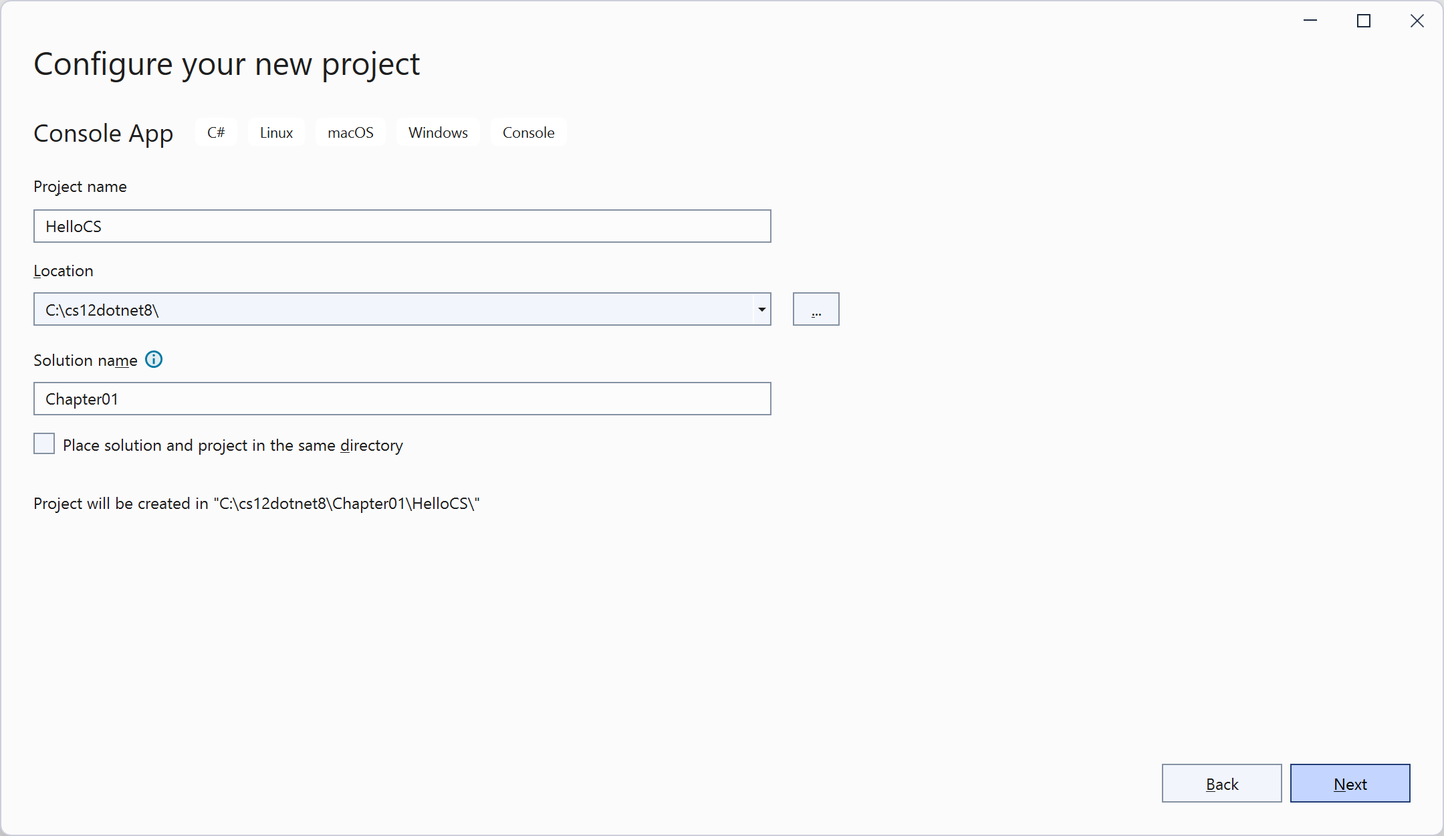
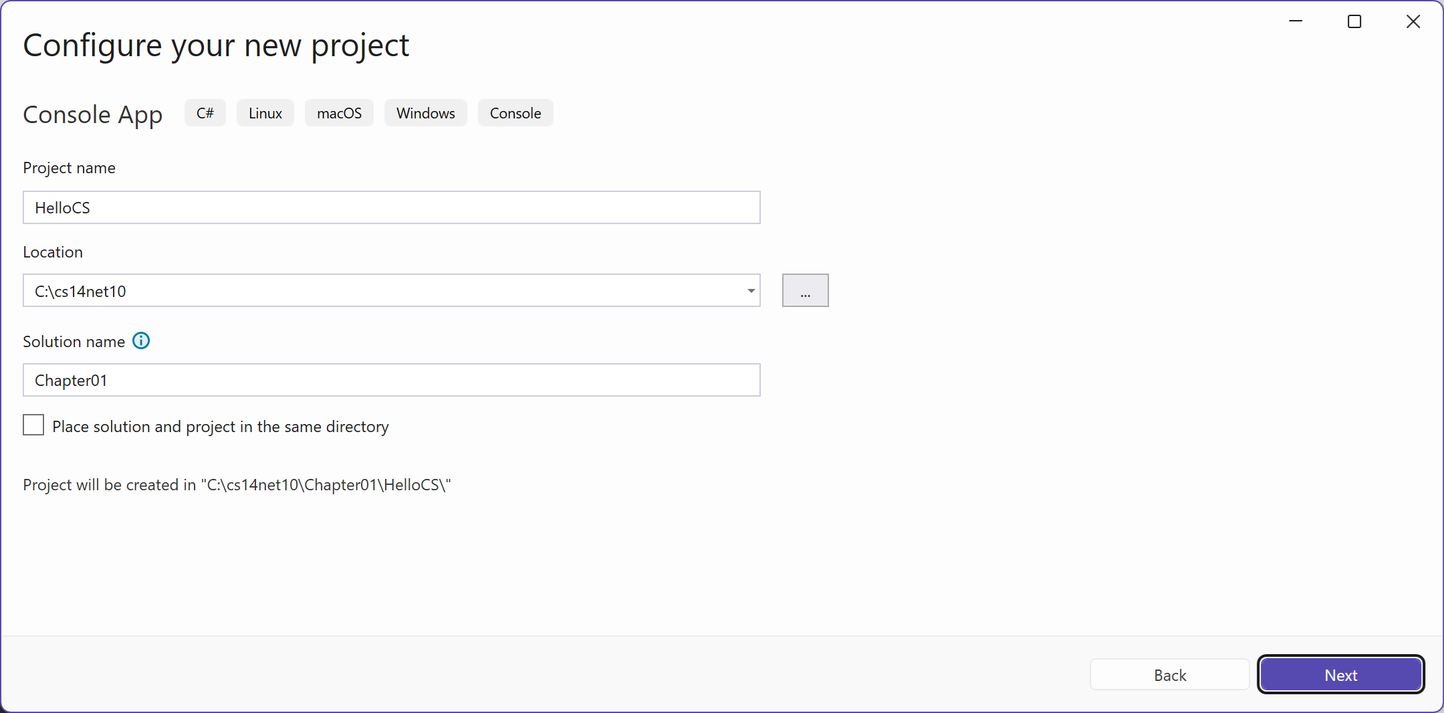
update screenshots to VS2026

diff --git a/docs/code-editors/vs.md b/docs/code-editors/vs.md
@@ -1,40 +1,38 @@
-**Using Visual Studio 2022 for Windows**
+**Visual Studio 2026 for Windows**
 
-In this article, I provide detailed step-by-step instuctions for using Visual Studio 2022 for Windows for topics like creating a solution with multiple projects and using debugging tools.
+In this article, I provide detailed step-by-step instuctions for using Visual Studio 2026 for Windows for topics like creating a solution with multiple projects and using debugging tools.
 
 - [Chapter 1 - Hello, C#! Welcome, .NET!](#chapter-1---hello-c-welcome-net)
-  - [Downloading and installing Visual Studio 2022](#downloading-and-installing-visual-studio-2022)
-  - [Building console apps using Visual Studio 2022](#building-console-apps-using-visual-studio-2022)
-    - [Managing multiple projects using Visual Studio 2022](#managing-multiple-projects-using-visual-studio-2022)
-    - [Writing code using Visual Studio 2022](#writing-code-using-visual-studio-2022)
+  - [Downloading and installing Visual Studio](#downloading-and-installing-visual-studio)
+  - [Building console apps using Visual Studio](#building-console-apps-using-visual-studio)
+    - [Managing multiple projects using Visual Studio](#managing-multiple-projects-using-visual-studio)
+    - [Writing code using Visual Studio](#writing-code-using-visual-studio)
   - [Compiling and running code using Visual Studio](#compiling-and-running-code-using-visual-studio)
   - [Understanding the compiler-generated folders and files](#understanding-the-compiler-generated-folders-and-files)
   - [Understanding top-level programs](#understanding-top-level-programs)
     - [Requirements for top-level programs](#requirements-for-top-level-programs)
     - [Implicitly imported namespaces](#implicitly-imported-namespaces)
     - [Revealing the hidden code by throwing an exception](#revealing-the-hidden-code-by-throwing-an-exception)
-  - [Adding a second project using Visual Studio 2022](#adding-a-second-project-using-visual-studio-2022)
+  - [Adding a second project using Visual Studio](#adding-a-second-project-using-visual-studio)
 - [Chapter 4 - Writing, Debugging, and Testing Functions](#chapter-4---writing-debugging-and-testing-functions)
   - [Debugging during development](#debugging-during-development)
     - [Creating code with a deliberate bug](#creating-code-with-a-deliberate-bug)
     - [Setting a breakpoint and starting debugging](#setting-a-breakpoint-and-starting-debugging)
-    - [Using Visual Studio 2022](#using-visual-studio-2022)
+    - [Using Visual Studio](#using-visual-studio)
     - [Navigating with the debugging toolbar](#navigating-with-the-debugging-toolbar)
     - [Debugging windows](#debugging-windows)
     - [Stepping through code](#stepping-through-code)
     - [Customizing breakpoints](#customizing-breakpoints)
   - [Hot reloading during development](#hot-reloading-during-development)
-    - [Hot reloading using Visual Studio 2022](#hot-reloading-using-visual-studio-2022)
-- [Chapter 7 - Packaging and Distributing .NET Types](#chapter-7---packaging-and-distributing-net-types)
-  - [Decompiling using the ILSpy extension for Visual Studio 2022 (coming soon)](#decompiling-using-the-ilspy-extension-for-visual-studio-2022-coming-soon)
+    - [Hot reloading using Visual Studio](#hot-reloading-using-visual-studio)
 
 # Chapter 1 - Hello, C#! Welcome, .NET!
 
-## Downloading and installing Visual Studio 2022
+## Downloading and installing Visual Studio
 
-If you have not already installed Visual Studio 2022 for Windows, let's do so now:
+If you have not already installed Visual Studio 2026 for Windows, let's do so now:
 
-1.	Download Microsoft Visual Studio 2022 version 17.8 or later for Windows from the following link: https://visualstudio.microsoft.com/downloads/.
+1.	Download Microsoft Visual Studio 2026 version 18.0 or later for Windows from the following link: https://visualstudio.microsoft.com/downloads/.
 2.	Start the installer.
 3.	On the **Workloads** tab, select the following:
     -	**ASP.NET and web development**
@@ -42,50 +40,51 @@ If you have not already installed Visual Studio 2022 for Windows, let's do so no
     - **Desktop development with C++** with all default components (because this enables publishing console apps and web services that start faster and have smaller memory footprints).
 4.	Click **Install** and wait for the installer to acquire the selected software and install it.
 5.	When the installation is complete, click **Launch**.
-6.	The first time that you run Visual Studio 2022, you will be prompted to sign in. If you have a Microsoft account, you can use that account. If you don't, then register for a new one at the following link: https://signup.live.com/
-7.	The first time that you run Visual Studio 2022, you will be prompted to configure your environment. For **Development Settings**, choose **Visual C#**. For the color theme, I chose **Blue**, but you can choose whatever tickles your fancy.
+6.	The first time that you run Visual Studio, you will be prompted to sign in. If you have a Microsoft account, you can use that account. If you don't, then register for a new one at the following link: https://signup.live.com/
+7.	The first time that you run Visual Studio, you will be prompted to configure your environment. For **Development Settings**, choose **Visual C#**. For the color theme, I chose **Blue**, but you can choose whatever tickles your fancy.
 8.	If you want to customize your keyboard shortcuts, navigate to **Tools** | **Options...**, and then select the **Keyboard** section.
 
-## Building console apps using Visual Studio 2022
+## Building console apps using Visual Studio
 
-The goal of this section is to showcase how to build a console app using Visual Studio 2022 for Windows. 
+The goal of this section is to showcase how to build a console app using Visual Studio. 
 
-### Managing multiple projects using Visual Studio 2022
+### Managing multiple projects using Visual Studio
 
-Visual Studio 2022 has a concept named a solution that allows you to open and manage multiple projects simultaneously. We will use a solution to manage the two projects that you will create in this chapter.
+Visual Studio has a concept named a solution that allows you to open and manage multiple projects simultaneously. We will use a solution to manage the two projects that you will create in this chapter.
 
-### Writing code using Visual Studio 2022
+### Writing code using Visual Studio
 
 Let's get started writing code!
 
-1.	Start **Visual Studio 2022**. You might see an experimental new **Welcome** tab that replaces the old model dialog box, as shown in *Figure 1.3*. This was introduced with previews of version 17.6 but in more recent previews it has been removed again. Microsoft is surveying what "Welcome Experience" developers prefer so it might return.
-2.	In the **Welcome** tab, click **New Project**, or if you are using a version with the **Visual Studio 2022** modal dialog box, then in the **Get started** section, click **Create a new project**.
+1.	Start **Visual Studio**.
+2.	In the **Visual Studio 2026** | **Get started** window, click **Create a new project**, as shown in *Figure 1.3*:
 
-![Creating a new project in Visual Studio 2022](assets/vs/B19586_01_03.png)
-*Figure 1.3: Creating a new project in Visual Studio 2022*
+![Creating a new project in Visual Studio](assets/vs/B19586_01_03.png)
+*Figure 1.3: Creating a new project in Visual Studio*
 
-3.	In the **Create a new project** dialog,  select the C# language to filter the project templates, and then enter `console` in the **Search for templates** box, and select **Console App**, making sure that you have chosen the cross-platform project template, not the one for .NET Framework, which is Windows-only, and the C# project template rather than another language, such as Visual Basic or TypeScript, so that it is selected as shown in *Figure 1.4*:
+3.	In the **Create a new project** dialog,  select the **C#** language to filter the project templates, and then enter `console` in the **Search for templates** box, and select **Console App**, making sure that you have chosen the cross-platform project template, not the one for .NET Framework, which is Windows-only, and the C# project template rather than another language, such as Visual Basic or TypeScript, so that it is selected as shown in *Figure 1.4*:
 
 ![Selecting the Console App project template](assets/vs/B19586_01_04.png) 
 *Figure 1.4: Selecting the Console App project template*
 
 4.	Click **Next**.
-5.	In the **Configure your new project** dialog, enter `HelloCS` for the project name, enter `C:\cs12dotnet8` for the location, and enter `Chapter01` for the solution name, as shown in *Figure 1.5*:
+5.	In the **Configure your new project** dialog, enter `HelloCS` for the project name, enter `C:\cs14net10` for the location, and enter `Chapter01` for the solution name, as shown in *Figure 1.5*:
 
  ![Configuring names and locations for your new project](assets/vs/B19586_01_05.png)
 *Figure 1.5: Configuring names and locations for your new project*
 
 6.	Click **Next**.
-7.	In the **Additional information** dialog, in the **Framework** drop-down list, note that your .NET SDK choices indicate if that version is **Standard Term Support**, **Long Term Support**, **Preview**, or **Out of support**, and then select **.NET 8.0 (Long Term Support)**.
+7.	In the **Additional information** dialog, in the **Framework** drop-down list, note that your .NET SDK choices indicate if that version is **Standard Term Support**, **Long Term Support**, **Preview**, or **Out of support**, and then select **.NET 10.0 (Long Term Support)**.
 
-> If you are missing a .NET SDK version, then you can install it from the following link: https://dotnet.microsoft.com/en-us/download/dotnet. 
+> If you are missing a .NET SDK version, then you can install it from the following link: https://dotnet.microsoft.com/en-us/download/dotnet. You will need to restart Visual Studio for it to be recognized. 
 
-8. Leave the check box labelled **Do not use top-level statements** cleared, and then click **Create**. (Later in this chapter you will create a console app that selects this option so you can see the difference.)
-9. If you cannot see the **Solution Explorer**, then navigate to **View** | **Solution Explorer**.
+1. Leave the check boxes labeled **Enable container support**, **Do not use top-level statements**, and **Enable native AOT publish** cleared.(you will learn about these other options later in this and other chapters.)
+2. Click **Create**.
+3.  If you cannot see the **Solution Explorer**, then navigate to **View** | **Solution Explorer**.
 10.	If code is not shown, then in  **Solution Explorer**, double-click the file named `Program.cs` to open it, and note that **Solution Explorer** shows the `HelloCS` project, as shown in *Figure 1.6*:
  
-![Editing Program.cs in Visual Studio 2022](assets/vs/B19586_01_06.png)
-*Figure 1.6: Editing Program.cs in Visual Studio 2022*
+![Editing Program.cs in Visual Studio](assets/vs/B19586_01_06.png)
+*Figure 1.6: Editing Program.cs in Visual Studio*
 
 11.	In `Program.cs`, note the code consists of only a comment and a single statement. This is because it uses the top-level program feature introduced in C# 9, as shown in the following code:
 ```cs
@@ -94,7 +93,7 @@ Console.WriteLine("Hello, World!");
 ```
 > As the comment in the code says, you can read more about this template at the following link: https://aka.ms/new-console-template.
 
-12. In `Program.cs`, modify line 2 so that the text that is being written to the console says `Hello, C#!`.
+1.  In `Program.cs`, modify line 2 so that the text that is being written to the console says `Hello, C#!`.
 
 > All code examples and commands that the reader must review or type are shown in plain text so you will never have to read code or commands from a screenshot like in *Figure 1.6* that might be too small or too faint in print.
 
@@ -104,17 +103,16 @@ The next task is to compile and run the code.
 
 1.	In Visual Studio, navigate to **Debug** | **Start Without Debugging**. 
 
-> **Good Practice**: When you start a project in Visual Studio 2022, you can choose to attach a debugger or not. If you do not need to debug, then it is better not to attach one because attaching a debugger requires more resources and slows everything down. Attaching a debugger also limits you to only starting one project. If you want to run more than one project, each with a debugger attached, then you must start multiple instances of Visual Studio. In the toolbar, click the green outline triangle button to start without debugging instead of the green solid triangle button unless you need to debug.
+> **Good Practice**: When you start a project in Visual Studio, you can choose to attach a debugger or not. If you do not need to debug, then it is better not to attach one because attaching a debugger requires more resources and slows everything down. Attaching a debugger also limits you to only starting one project. If you want to run more than one project, each with a debugger attached, then you must start multiple instances of Visual Studio. In the toolbar, click the green outline triangle button to start without debugging instead of the green solid triangle button unless you need to debug.
 
 2.	The output in the console window will show the result of running your application, as shown in *Figure 1.7*: 
  
 ![Running the console app on Windows](assets/vs/B19586_01_07.png)
 *Figure 1.7: Running the console app on Windows*
 
-3.	Press any key to close the console window and return to Visual Studio 2022.
-4. Optionally, close the **Properties** pane to make more vertical space for **Solution Explorer**.
-5. Double-click the `HelloCS` project and note the `HelloCS.csproj` project file shows that this console app targets `net8.0`, as shown in *Figure 1.8*.
-6.	In the **Solution Explorer** toolbar, toggle on the **Show All Files** button, and note the compiler-generated `bin` and `obj` folders are visible, as shown in *Figure 1.8*: 
+3.	Press any key to close the console window and return to Visual Studio.
+4. Double-click the `HelloCS` project and note the `HelloCS.csproj` project file shows that this console app targets `net10.0`, as shown in *Figure 1.8*.
+5.	In the **Solution Explorer** toolbar, toggle on the **Show All Files** button, and note the compiler-generated `bin` and `obj` folders are visible, as shown in *Figure 1.8*: 
 
 ![Showing the compiler-generated folders and files](assets/vs/B19586_01_08.png)
 *Figure 1.8: Showing the compiler-generated folders and files*
@@ -166,13 +164,13 @@ The trick is that we do still need to import the `System` namespace, but it is n
 2. Note that this file is automatically created by the compiler for projects that target .NET 6 or later, and that it uses a feature introduced in C# 10 called **global namespace imports** that imports some commonly used namespaces like `System` for use in all code files, as shown in the following code:
 ```cs
 // <autogenerated />
-global using global::System;
-global using global::System.Collections.Generic;
-global using global::System.IO;
-global using global::System.Linq;
-global using global::System.Net.Http;
-global using global::System.Threading;
-global using global::System.Threading.Tasks;
+global using System;
+global using System.Collections.Generic;
+global using System.IO;
+global using System.Linq;
+global using System.Net.Http;
+global using System.Threading;
+global using System.Threading.Tasks;
 ```
 
 3. In **Solution Explorer**, click the **Show All Files** button to hide the `bin` and `obj` folders. 
@@ -196,21 +194,21 @@ throw new Exception();
 
 4. Press any key to close the console app window and return to Visual Studio.
 
-## Adding a second project using Visual Studio 2022
+## Adding a second project using Visual Studio
 
 Let's add a second project to our solution to work with multiple projects.
 
-1.	In Visual Studio 2022, navigate to **File** | **Add** | **New Project**.
+1.	In Visual Studio, navigate to **File** | **Add** | **New Project**.
 
 > **Warning!** The above step adds a new project to the existing solution. Do NOT navigate to **File** | **New** | **Project…** which instead is meant to be used to create a new project and solution (although the dialog box has a dropdown to choose to add to an existing solution too).
 
 2.	In the **Add a new project** dialog, in **Recent project templates**, select **Console App [C#]** and then click **Next**.
-3.	In the **Configure your new project** dialog, for the **Project name**, enter `AboutMyEnvironment`, leave the location as `C:\cs12dotnet8\Chapter01`, and then click **Next**.
-4.	In the **Additional information** dialog, select **.NET 8.0 (Long Term Support)**, select the **Do not use top-level statements** check box.
+3.	In the **Configure your new project** dialog, for the **Project name**, enter `AboutMyEnvironment`, leave the location as `C:\cs14net10\Chapter01`, and then click **Next**.
+4.	In the **Additional information** dialog, select **.NET 10.0 (Long Term Support)**, select the **Do not use top-level statements** check box.
 
 > **Warning!** Make sure you have selected the check box, so we get to see the older style of `Program.cs`.
 
-5. Click **Create**.
+1. Click **Create**.
 6.	In **Solution Explorer**, in the `AboutMyEnvironment` project, double-click `Program.cs` to open it.
 7.	In the `AboutMyEnvironment` project, in `Program.cs`, note the statements to define a namespace that matches the project name, a class named `Program`, and a method named `Main` with a parameter named `args`, as shown highlighted in the following code:
 ```cs
@@ -226,15 +224,15 @@ namespace AboutMyEnvironment
 }
 ```
 
-8. In `Program.cs`, in the `Main` method, delete the existing `Console.WriteLine` statement and then add statements to output the current directory and the version of the operating system, as shown in the following code:
+1. In `Program.cs`, in the `Main` method, delete the existing `Console.WriteLine` statement and then add statements to output the current directory and the version of the operating system, as shown in the following code:
 ```cs
 Console.WriteLine(Environment.CurrentDirectory);
 Console.WriteLine(Environment.OSVersion.VersionString);
 ```
 
-9. In **Solution Explorer**, right-click the `Chapter01` solution, and then select **Configure Startup Projects…**.
-10. In the **Solution 'Chapter01' Property Pages** dialog box, set **Startup Project** to **Current selection**, and then click **OK**.
-11. In **Solution Explorer**, click the `AboutMyEnvironment` project (or any file or folder within it), and note that Visual Studio indicates that **AboutMyEnvironment** is now the startup project by making the project name bold.
+1. In **Solution Explorer**, right-click the `Chapter01` solution, and then select **Configure Startup Projects…**.
+2.  In the **Solution 'Chapter01' Property Pages** dialog box, set **Startup Project** to **Current selection**, and then click **OK**.
+3.  In **Solution Explorer**, click the `AboutMyEnvironment` project (or any file or folder within it), and note that Visual Studio indicates that **AboutMyEnvironment** is now the startup project by making the project name bold.
 
 > **Good Practice**: I recommend this way of setting the startup project because it then makes it very easy to switch startup projects by simply clicking a project (or any file in a project) to make it the startup project. Although you can right-click a project and set it as a startup project, if you then want to run a different project, you must manually change it again. Simply clicking anywhere in the project is easier.
 
@@ -252,13 +250,13 @@ Microsoft Windows NT 10.0.22621.0
 
 13. Press any key to close the console app window and return to Visual Studio.
 
-> When using Visual Studio 2022 for Windows to run a console app, it executes the app from the `<projectname>\bin\Debug\net8.0` folder. It will be important to remember this when we work with the filesystem in later chapters. When using Visual Studio Code, or more accurately, the dotnet CLI, it has different behavior.
+> When using Visual Studio to run a console app, it executes the app from the `<projectname>\bin\Debug\net8.0` folder. It will be important to remember this when we work with the filesystem in later chapters. When using VS Code, or more accurately, the dotnet CLI, it has different behavior.
 
 # Chapter 4 - Writing, Debugging, and Testing Functions
 
 ## Debugging during development
 
-In this section, you will learn how to debug problems at development time. You must use a code editor that has debugging tools, such as Visual Studio 2022 or Visual Studio Code.
+In this section, you will learn how to debug problems at development time. You must use a code editor that has debugging tools, such as Visual Studio or VS Code.
 
 ### Creating code with a deliberate bug
 
@@ -299,28 +297,28 @@ We will use the debugging tools to hunt for and squish the bug.
 
 Breakpoints allow us to mark a line of code that we want to pause at to inspect the program state and find bugs.
 
-### Using Visual Studio 2022
-Let's set a breakpoint and then start debugging using Visual Studio 2022:
+### Using Visual Studio
+Let's set a breakpoint and then start debugging using Visual Studio:
 
 1.	Click in line 1, which is the statement that declares the variable named `a`.
 2.	Navigate to **Debug** | **Toggle Breakpoint** or press *F9*. A red circle will appear in the margin bar on the left-hand side and the statement will be highlighted in red to indicate that a breakpoint has been set, as shown in *Figure 4.3*:
 
-![Toggling breakpoints using Visual Studio 2022](assets/vs/B19586_04_03.png)
-*Figure 4.3: Toggling breakpoints using Visual Studio 2022*
+![Toggling breakpoints using Visual Studio](assets/vs/B19586_04_03.png)
+*Figure 4.3: Toggling breakpoints using Visual Studio*
 
 Breakpoints can be toggled off with the same action. You can also left-click in the margin to toggle a breakpoint on and off, or right-click a breakpoint to see more options, such as delete, disable, or edit conditions or actions for an existing breakpoint.
 
 3.	Navigate to **Debug** | **Start Debugging** or press *F5*. Visual Studio starts the console application and then pauses when it hits the breakpoint. This is known as break mode. Extra windows titled **Locals** (showing current values of local variables), **Watch 1** (showing any watch expressions you have defined), **Call Stack**, **Exception Settings**, and **Immediate Window** may appear. The **Debugging** toolbar appears. The line that will be executed next is highlighted in yellow, and a yellow arrow points at the line from the margin bar, as shown in *Figure 4.4*:
 
-![Break mode in Visual Studio 2022](assets/vs/B19586_04_04.png)
-*Figure 4.4: Break mode in Visual Studio 2022*
+![Break mode in Visual Studio](assets/vs/B19586_04_04.png)
+*Figure 4.4: Break mode in Visual Studio*
 
 ### Navigating with the debugging toolbar
 
-Visual Studio Code shows a floating toolbar with buttons to make it easy to access debugging features, as shown in *Figure 4.7* and as described in the following list:
+VS Code shows a floating toolbar with buttons to make it easy to access debugging features, as shown in *Figure 4.7* and as described in the following list:
 
-![Debugging toolbars in Visual Studio 2022 and Visual Studio Code](assets/vscode/B19586_04_07.png) 
-*Figure 4.7: Debugging toolbars in Visual Studio 2022 and Visual Studio Code*
+![Debugging toolbars in Visual Studio and VS Code](assets/vscode/B19586_04_07.png) 
+*Figure 4.7: Debugging toolbars in Visual Studio and VS Code*
 
 - **Start**/**Continue**/*F5*: This button is context sensitive. It will either start a project running or continue running the project from the current position until it ends or hits a breakpoint.
 - **Hot Reload**: This button will reload compiled code changes without needing to restart the app.
@@ -333,7 +331,7 @@ Visual Studio Code shows a floating toolbar with buttons to make it easy to acce
 
 ### Debugging windows
 
-While debugging, both Visual Studio 2022 and Visual Studio Code show extra windows that allow you to monitor useful information, such as variables, while you step through your code.
+While debugging, both Visual Studio and VS Code show extra windows that allow you to monitor useful information, such as variables, while you step through your code.
 
 The most useful windows are described in the following list:
 
@@ -347,7 +345,7 @@ When in break mode, there is also a useful window at the bottom of the edit area
 
 ### Stepping through code
 
-Let's explore some ways to step through the code using Visual Studio 2022:
+Let's explore some ways to step through the code using Visual Studio:
 
 1.	Navigate to **Debug** | **Step Into**, click on the **Step Into** button in the toolbar, or press *F11*. The yellow highlight steps forward one line.
 2.	Navigate to **Debug** | **Step Over**, click on the **Step Over** button in the toolbar, or press *F10*. The yellow highlight steps forward one line. At the moment, you can see that there is no difference between using **Step Into** or **Step Over** because we are executing single statements.
@@ -379,10 +377,10 @@ It is easy to make more complex breakpoints:
 9.	Edit the breakpoint or its conditions and change its expression to less than 9.
 10.	Start debugging and note the breakpoint is hit.
 11.	Stop debugging.
-12.	Edit the breakpoint or its conditions (in Visual Studio 2022 click Add condition), select **Hit Count**, then enter a number such as 3, meaning that you would have to hit the breakpoint three times before it activates, as shown in *Figure 4.13*:
+12.	Edit the breakpoint or its conditions (in Visual Studio click Add condition), select **Hit Count**, then enter a number such as 3, meaning that you would have to hit the breakpoint three times before it activates, as shown in *Figure 4.13*:
 
-![Customizing a breakpoint with an expression and hot count using Visual Studio 2022](assets/vs/B19586_04_13.png) 
-*Figure 4.13: Customizing a breakpoint with an expression and hot count using Visual Studio 2022*
+![Customizing a breakpoint with an expression and hot count using Visual Studio](assets/vs/B19586_04_13.png) 
+*Figure 4.13: Customizing a breakpoint with an expression and hot count using Visual Studio*
 
 13.	Hover your mouse over the breakpoint's red circle to see a summary.
 
@@ -399,8 +397,8 @@ Let's see it in action:
 2.	Modify `HotReloading.csproj` to statically import `System.Console` for all code files.
 3.	In `Program.cs`, delete the existing statements and then write a message to the console every two seconds, as shown in the following code:
 ```cs
-/* Visual Studio 2022: run the app, change the message, click Hot Reload.
- * Visual Studio Code: run the app using dotnet watch, change the message. */
+/* Visual Studio: run the app, change the message, click Hot Reload.
+ * VS Code: run the app using dotnet watch, change the message. */
 
 while (true)
 {
@@ -409,9 +407,9 @@ while (true)
 }
 ```
 
-### Hot reloading using Visual Studio 2022
+### Hot reloading using Visual Studio
 If you are using Visual Studio, Hot Reload is built into the user interface:
-1.	In Visual Studio 2022, start the project and note that the message is output every two seconds.
+1.	In Visual Studio, start the project and note that the message is output every two seconds.
 2.	Leave the project running.
 3.	In `Program.cs`, change `Hello` to `Goodbye`.
 4.	Navigate to **Debug** | **Apply Code Changes** or click the **Hot Reload** button in the toolbar as shown in *Figure 4.15*, and note the change is applied without needing to restart the console app.
@@ -421,7 +419,3 @@ If you are using Visual Studio, Hot Reload is built into the user interface:
 *Figure 4.15: Changing Hot Reload options*
 
 6.	Change the message again, save the file, and note the console app updates automatically.
-
-# Chapter 7 - Packaging and Distributing .NET Types
-
-## Decompiling using the ILSpy extension for Visual Studio 2022 (coming soon)

diff --git a/docs/code-editors/README.md b/docs/code-editors/README.md
@@ -1,11 +1,11 @@
 # Code Editors
-- [Visual Studio for Windows](vs.md)
+- [Visual Studio 2026 for Windows](vs.md)
 - [Visual Studio Code](vscode.md)
 - [JetBrains Rider](rider.md)
-
-> **Since October 2024, Rider is now free for non-commercial use!** You can learn more about this at the following link: https://blog.jetbrains.com/blog/2024/10/24/webstorm-and-rider-are-now-free-for-non-commercial-use/.
 
 The **.NET Developers** community on LinkedIn was surveyed in May 2025 and they confirm that Visual Studio is still the most used IDE:
 ![Popularity of code editors and IDEs](assets/net-devs-linkedin-survey-ide.png)
 
 > **Warning!** Visual Studio for Mac reached its end-of-life in August 2024. You can read the retirement announcement at the following link: https://devblogs.microsoft.com/visualstudio/visual-studio-for-mac-retirement-announcement/.
+
+> **Since October 2024, Rider is now free for non-commercial use!** You can learn more about this at the following link: https://blog.jetbrains.com/blog/2024/10/24/webstorm-and-rider-are-now-free-for-non-commercial-use/.
